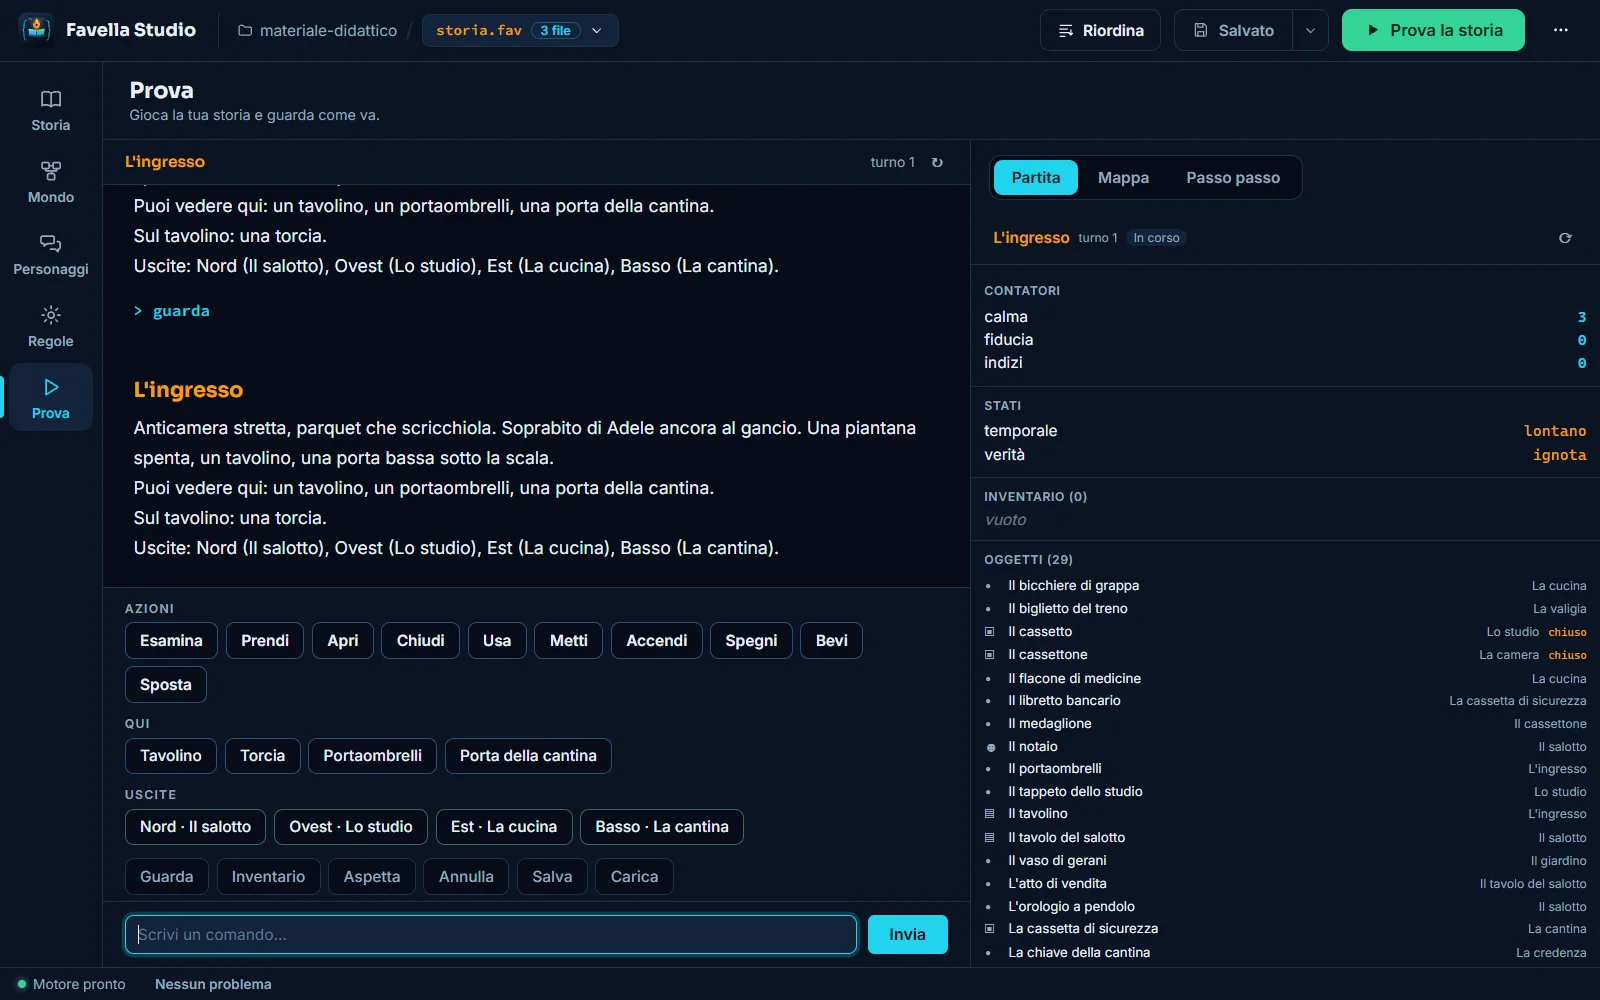
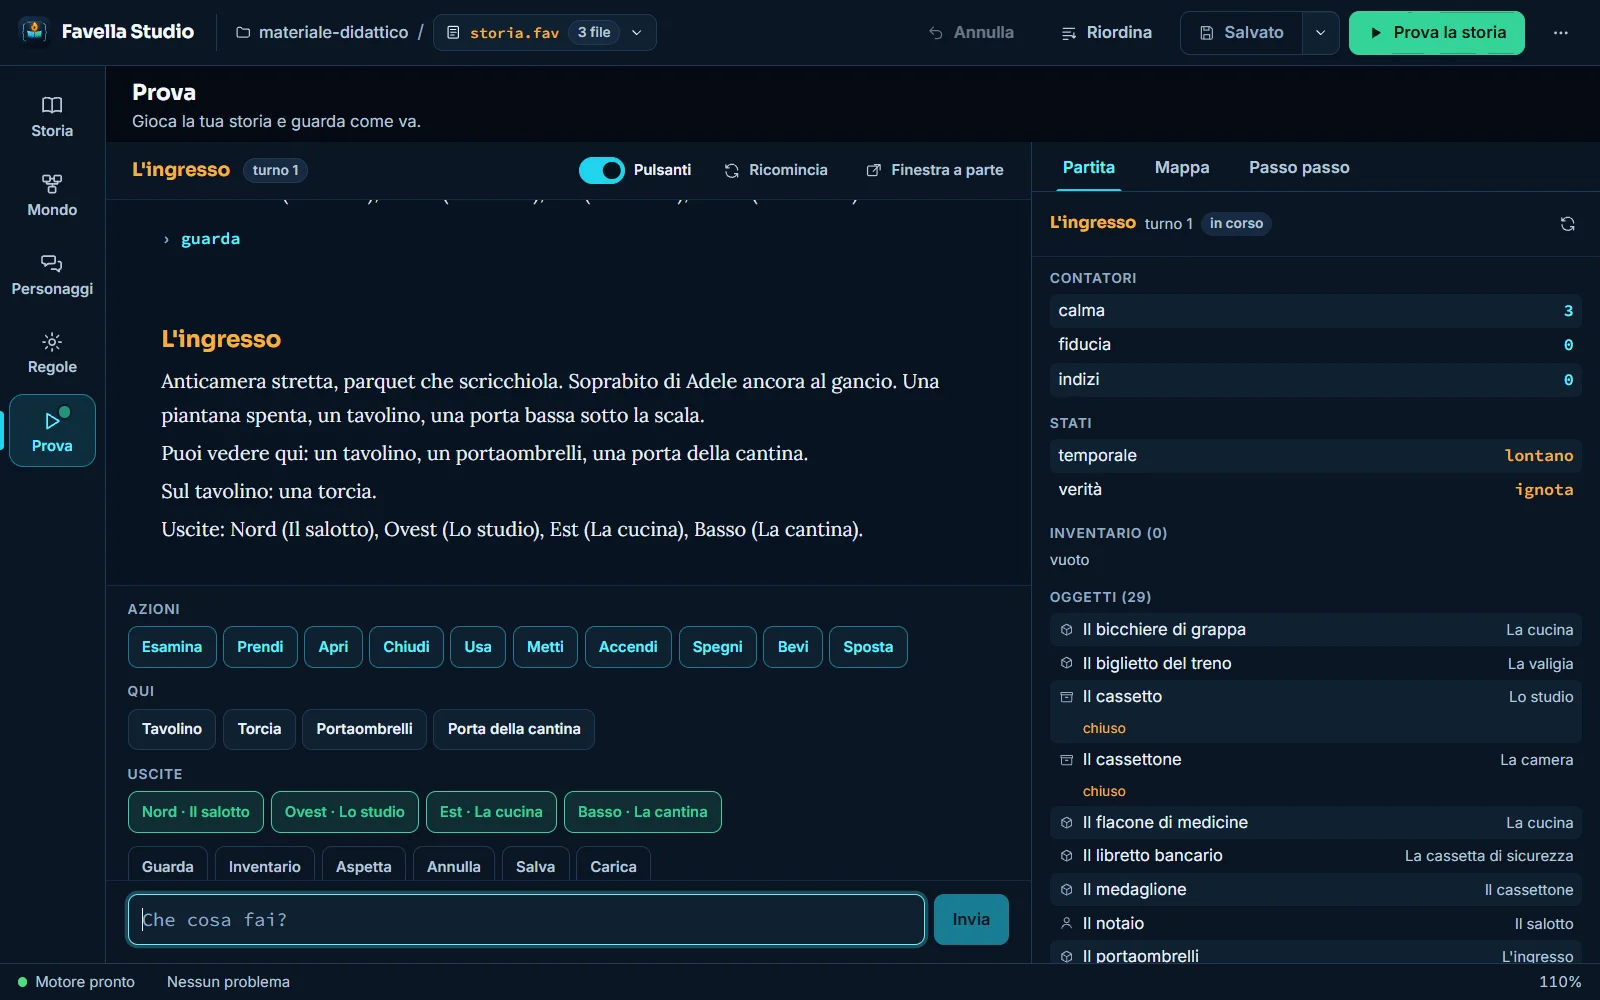
feat(sito): 2.8.3 — Favella Studio 1.2.0 sul sito, schermate rifatte
- STUDIO_VERSION 1.2.0: download, Release, piè di pagina, descrizione /studio.
- /studio: «Nella 1.2.0» riscritta (temi, annulla, tastiera, aggiornamenti col
  permesso, storia o cartella, mappa); schermate rifatte col ridisegno «Scrittoio»
  sul progetto d'esempio; anteprima OG «Favella Studio 1.2».
- Notizia: la 1.2.0 al posto della 1.1.3.
- scripts/foto-studio.mjs segue le classi nuove dell'interfaccia.
- package.json e package-lock.json del sito allineati a 2.8.3.
- README e index.md: Favella Studio 1.2.0, Release studio-v1.2.0.

diff --git a/landingpage/src/pages/StudioPage.tsx b/landingpage/src/pages/StudioPage.tsx
@@ -38,7 +38,7 @@ const SCHERMATE = [
     alt: "La mappa delle stanze, con la scheda delle uscite della stanza selezionata",
     titolo: "Le stanze diventano una mappa",
     testo:
-      "Trascini da una stanza all'altra per collegarle. Un clic su una freccia cambia o toglie la connessione; un clic su una stanza apre le sue uscite, senza lasciare la mappa.",
+      "Trascini da una stanza all'altra per collegarle; la direzione è scritta accanto alla stanza da cui la prendi. Un clic su un collegamento lo cambia o lo toglie; un clic su una stanza apre le sue uscite, senza lasciare la mappa.",
   },
   {
     id: "oggetti",
@@ -97,12 +97,12 @@ const SCHERMATE = [
 
 // Che cosa si può fare dai pannelli, oltre al testo.
 const NOVITA = [
-  ["Aggiornamenti automatici", "Favella Studio controlla e scarica le nuove versioni in background da GitHub Releases, con avanzamento e installazione guidata."],
-  ["Template nuovo progetto", "Ogni nuovo progetto parte con stanza iniziale e giocatore già pronti, così tutti i pannelli visuali sono subito attivi."],
-  ["Personaggi da zero", "Nome, stanza e descrizione in un gesto; poi lo sposti, lo rinomini, scrivi il suo dialogo."],
-  ["Rinomina, elimina", "Il nome cambia in tutte le frasi che lo citano, anche negli altri file. Prima di eliminare, vedi che cosa se ne va."],
-  ["Uscite dalla mappa", "Cambi direzione o destinazione con un clic: dalla stanza o dalla mappa, è lo stesso editor."],
-  ["Storie a più file", "Un file principale e i moduli che include: li crei, li includi, li togli. Provare e riordinare lavorano sulla storia intera."],
+  ["Notte, carta, contrasto alto", "Tre modi di leggere, che valgono anche per il testo e per la mappa: un tema scuro, uno chiaro, e il contrasto alto per tutti e due. Ogni testo sta ad almeno 4,5:1 sul suo fondo."],
+  ["Ogni modifica si annulla", "Quello che fai dai pannelli si disfa con «Annulla» o con Ctrl+Z, anche nei file che non hai aperto. Dopo un'eliminazione, l'avviso ha il suo «Annulla»."],
+  ["Tutto da tastiera", "Sezioni, elenchi, schede, menu e finestre si usano con le frecce, Invio ed Esc. Il racconto della partita lo leggono i lettori di schermo."],
+  ["Aggiornamenti col tuo permesso", "Studio chiede prima di collegarsi a internet. Una versione nuova si installa solo se la sua impronta coincide con quella pubblicata, e solo dopo averti chiesto dei file non salvati."],
+  ["Una storia o una cartella", "Ctrl+O apre un file .fav, Ctrl+Maiusc+O una cartella; se nella cartella c'è una storia sola, si apre da sé. Il principale e i moduli che include li crei, li includi, li togli."],
+  ["Una mappa che si legge", "Ogni collegamento ha la direzione scritta accanto alla stanza da cui la prendi; le uscite a senso unico sono tratteggiate, e le posizioni delle stanze si ricordano."],
 ] as const;
 
 const SEZIONI = [
@@ -220,10 +220,10 @@ const StudioPage = () => {
             tone="amber"
             title={
               <>
-                Tutto si crea e si cambia <Ink>dai pannelli.</Ink>
+                Rivisto da cima a fondo, <Ink>per leggere bene.</Ink>
               </>
             }
-            lead="Stanze, oggetti, personaggi, uscite, regole, dialoghi: ogni cosa si aggiunge, si modifica, si rinomina e si elimina senza passare dal testo. E il testo resta lì, sempre uguale a ciò che fai."
+            lead="Una revisione completa, riga per riga, e un'interfaccia ridisegnata per chi ci vede poco. Stanze, oggetti, personaggi, uscite, regole e dialoghi si creano e si cambiano dai pannelli, e il testo resta sempre uguale a ciò che fai."
           />
           <div className="grid gap-5 md:grid-cols-2 lg:grid-cols-3">
             {NOVITA.map(([t, d], i) => (
@@ -269,7 +269,7 @@ const StudioPage = () => {
             ],
             [
               "Pensato per leggere bene",
-              "Grandezza regolabile dall'80% al 200% (Ctrl + / − / 0), contrasti alti, bersagli grandi, focus sempre visibile, tutto raggiungibile da tastiera. I font sono inclusi: funziona anche senza rete.",
+              "Grandezza regolabile dall'80% al 200% (Ctrl + / − / 0), tema notte o carta, contrasto alto, bersagli grandi, fuoco sempre visibile, tutto raggiungibile da tastiera. I font sono inclusi: funziona anche senza rete.",
             ],
           ].map(([t, d], i) => (
             <Reveal key={t} delay={i * 100}>

diff --git a/landingpage/src/constants.tsx b/landingpage/src/constants.tsx
@@ -42,7 +42,9 @@ export const SITE_URL = "https://favella.eu";
 //   interne senza nuova scheda in Btn (StudioPage), download diretti di Favella Studio 1.1.3
 //   e distinzione netta tra motore CLI e IDE desktop su /download, link e note allineati.
 // · 2.8.2 = motore 1.4.3: tre difetti chiusi dopo una verifica completa del motore.
-export const SITE_VERSION = "2.8.2";
+// · 2.8.3 = Favella Studio 1.2.0 (revisione completa e ridisegno «Scrittoio»): pagina
+//   /studio, schermate rifatte, notizia.
+export const SITE_VERSION = "2.8.3";
 
 export const GITHUB_URL = "https://github.com/Pitz72/FAVELLA1";
 export const RELEASES_URL = "https://github.com/Pitz72/FAVELLA1/releases/latest";
@@ -66,7 +68,7 @@ export const VIAGGIATORE_RELEASE_URL = `${VIAGGIATORE_REPO_URL}/releases/latest`
 
 // Favella Studio: l'ambiente di scrittura visuale (cartella studio/ del repository).
 // Ha le sue Release («studio-v<versione>», mai «Latest»): Windows e Linux; macOS si costruisce da sé.
-export const STUDIO_VERSION = "1.1.3";
+export const STUDIO_VERSION = "1.2.0";
 const _STUDIO_REL = `https://github.com/Pitz72/FAVELLA1/releases/download/studio-v${STUDIO_VERSION}`;
 export const DOWNLOAD_STUDIO_WINDOWS = `${_STUDIO_REL}/FavellaStudio-Setup-${STUDIO_VERSION}.exe`;
 export const DOWNLOAD_STUDIO_LINUX = `${_STUDIO_REL}/FavellaStudio-${STUDIO_VERSION}.AppImage`;
@@ -186,8 +188,8 @@ export const NEWS: NewsItem[] = [
     tag: "Studio",
     date: "Ottobre 2026",
     emphasis: "primary",
-    title: "Favella Studio 1.1.3: auto-updater e nuovi progetti",
-    body: "L'ambiente di scrittura visuale per FAVELLA 1 si arricchisce con la versione 1.1.3: aggiornamento automatico integrato direttamente da GitHub Releases con download e avanzamento a video, template di partenza (stanza e giocatore pronti) per abilitare subito tutti i pannelli visivi anche su progetti nuovi, e ripristino dell'apertura completa a cartella per le storie a più file.",
+    title: "Favella Studio 1.2: rivisto da cima a fondo, e ridisegnato per leggere bene",
+    body: "Una revisione completa dell'ambiente di scrittura, riga per riga. Corregge i difetti trovati (il più grave lasciava la finestra vuota aprendo certe regole) e ridisegna l'interfaccia per chi ci vede poco: tema notte o carta, contrasto alto per entrambi, ogni testo misurato ad almeno 4,5:1, tutto raggiungibile da tastiera, finestre e racconto della partita letti dai lettori di schermo. Le modifiche fatte dai pannelli si annullano; «Apri una storia» è tornato; l'aggiornamento automatico chiede il permesso e controlla l'impronta del file prima di installarlo. Dentro c'è il motore FAVELLA 1.4.3.",
     cta: { label: "Scopri Favella Studio", href: "/studio" },
   },
   {

diff --git a/landingpage/src/seo.ts b/landingpage/src/seo.ts
@@ -92,7 +92,7 @@ export const SEO_BY_PATH: Record<RoutePath, SeoEntry> = {
   "/studio": {
     title: "Favella Studio — FAVELLA 1",
     description:
-      "Favella Studio 1.1.3: l'ambiente di scrittura visuale per FAVELLA 1. Testo, mappa, oggetti, personaggi, regole e prova della storia in un'app sola, per Windows e Linux (su Mac la costruisci da te). Gratuito e open source.",
+      "Favella Studio 1.2.0: l'ambiente di scrittura visuale per FAVELLA 1. Testo, mappa, oggetti, personaggi, regole e prova della storia in un'app sola, con tema notte o carta e contrasto alto, per Windows e Linux (su Mac la costruisci da te). Gratuito e open source.",
     og: "/og/studio.png",
     type: "website",
   },

diff --git a/README.md b/README.md
@@ -11,7 +11,7 @@
 > ### 🏁 Progetto concluso
 >
 > **FAVELLA 1 è finito.** La versione **1.4.3** è la definitiva e **non verrà più modificata**:
-> linguaggio, motore, manuale (terza edizione) e sito restano come sono. **Favella Studio 1.1.3** è
+> linguaggio, motore, manuale (terza edizione) e sito restano come sono. **Favella Studio 1.2.0** è
 > la sua casa di scrittura. Il repository resta aperto, con licenza MIT, come **riferimento** per
 > chi voglia imparare, riprendere il lavoro o portarlo altrove. Le storie scritte oggi funzioneranno
 > uguali fra dieci anni.
@@ -344,14 +344,15 @@ L'evoluzione **non riguarda più il linguaggio**, ma il suo **ecosistema**:
 
 ## ✦ Favella Studio — l'ambiente di scrittura
 
-In [`studio/`](studio/) c'è **Favella Studio 1.1.3**: l'ambiente di scrittura visuale per FAVELLA.
+In [`studio/`](studio/) c'è **Favella Studio 1.2.0**: l'ambiente di scrittura visuale per FAVELLA.
 Cinque sezioni nell'ordine in cui si scrive una storia — **Storia** (il testo), **Mondo** (stanze,
 oggetti, mappa da trascinare), **Personaggi** (dialoghi), **Regole** (regole, eventi, stati, parole e
 comandi), **Prova** (la partita con i pulsanti-verbo) — più una finestra di gioco a parte per
-provare la storia come la vedrebbe chi la riceve. Il motore Python è dentro l'app: non serve
-installarlo.
+provare la storia come la vedrebbe chi la riceve. Il motore Python (1.4.3) è dentro l'app: non
+serve installarlo. Si legge in tema notte o carta, anche a contrasto alto, e si usa tutto da
+tastiera.
 
-- **Windows** e **Linux**: gli installer sono nella [Release «Favella Studio»](https://github.com/Pitz72/FAVELLA1/releases/tag/studio-v1.1.3).
+- **Windows** e **Linux**: gli installer sono nella [Release «Favella Studio»](https://github.com/Pitz72/FAVELLA1/releases/tag/studio-v1.2.0).
 - **macOS**: si costruisce in cinque minuti sul proprio Mac, con un comando: [`studio/BUILD-MACOS.md`](studio/BUILD-MACOS.md).
 - Presentazione e schermate: [favella.eu/studio](https://www.favella.eu/studio). Licenza MIT.
 

diff --git a/index.md b/index.md
@@ -75,7 +75,7 @@ Mappa di **dove sta ogni cosa**. Aggiornata al 2026-10-06 (motore 1.4.3).
 
 | Percorso | Git | Contenuto |
 |---|---|---|
-| `studio/` | tracciato | **Favella Studio** v1.1.3, IDE desktop (Electron + React + sidecar Python). Ambiente di scrittura visuale per FAVELLA 1 (Windows, Linux; macOS da sorgente). Licenza MIT. Fuori dal repo solo `node_modules/`, `out/`, `release/` |
+| `studio/` | tracciato | **Favella Studio** v1.2.0, IDE desktop (Electron + React + sidecar Python). Ambiente di scrittura visuale per FAVELLA 1 (Windows, Linux; macOS da sorgente). Licenza MIT. Fuori dal repo solo `node_modules/`, `out/`, `release/` |
 | `landingpage/` | tracciato (master grafici compresi) | Sito **favella.eu** (React/Vite + pre-rendering). Dal 2026-08-10 vive qui: non è più un repo a sé. I master grafici (`landingpage/immagini/`, ~51 MB) restano locali, come `branding/marchi/`; il sito usa le WebP in `landingpage/public/covers/`. Deploy: `npm run deploy` (FTPS, credenziali fuori dal repo) |
 | `newdesign/` | gitignored | Handoff redesign della landing (zip + estratto), materiale di lavorazione per `landingpage/` |
 | `presentazione/` | gitignored | Pitch deck Marp (sorgente, tema, `output/`): materiale di outreach **interno**, come `dove-presentare-favella.md` |
